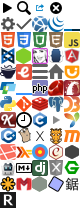
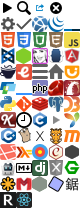
Add React documentation

Changed region(s): [[0.2, 0.9231, 0.4, 1.0]]

diff --git a/assets/stylesheets/global/_icons.scss b/assets/stylesheets/global/_icons.scss
@@ -73,3 +73,4 @@
 ._icon-phpunit:before       { background-position: -3rem -11rem; }
 ._icon-nokogiri:before      { background-position: -4rem -11rem; }
 ._icon-rethinkdb:before     { background-position: 0 -12rem; }
+._icon-react:before         { background-position: -1rem -12rem; }

diff --git a/assets/stylesheets/pages/_react.scss b/assets/stylesheets/pages/_react.scss
@@ -1,0 +1,8 @@
+._react {
+  > h2 { @extend %block-heading; }
+  > h3 { @extend %block-label, %label-blue; }
+  > h4 { font-size: 1em; }
+
+  code { @extend %label; }
+  blockquote { @extend %note; }
+}

diff --git a/assets/stylesheets/application.css.scss b/assets/stylesheets/application.css.scss
@@ -57,6 +57,7 @@
         'pages/phpunit',
         'pages/postgres',
         'pages/rdoc',
+        'pages/react',
         'pages/redis',
         'pages/requirejs',
         'pages/rethinkdb',

diff --git a/assets/stylesheets/components/_page.scss b/assets/stylesheets/components/_page.scss
@@ -15,6 +15,7 @@
 
   iframe {
     display: block;
+    margin-bottom: 1em;
     padding: 1px;
     border: 1px dotted $boxBorder;
     border-radius: 3px;

diff --git a/lib/docs/filters/react/entries.rb b/lib/docs/filters/react/entries.rb
@@ -1,0 +1,34 @@
+module Docs
+  class React
+    class EntriesFilter < Docs::EntriesFilter
+      API_SLUGS = %w(
+        top-level-api
+        component-api
+        component-specs
+      )
+
+      def get_name
+        at_css('h1').child.content
+      end
+
+      def get_type
+        link = at_css('.nav-docs-section .active')
+        section = link.ancestors('.nav-docs-section').first
+        section.at_css('h3').content
+      end
+
+      def additional_entries
+        return [] unless API_SLUGS.include?(slug)
+
+        css('.inner-content h3, .inner-content h4').map do |node|
+          name = node.content
+          name.remove! %r{[#\(\)]}
+          name.remove! %r{\w+\:}
+          id = node.at_css('.anchor')['name']
+          type = slug.include?('component') ? 'Component' : 'React'
+          [name, id, type]
+        end
+      end
+    end
+  end
+end

diff --git a/lib/docs/filters/react/clean_html.rb b/lib/docs/filters/react/clean_html.rb
@@ -1,0 +1,31 @@
+module Docs
+  class React
+    class CleanHtmlFilter < Filter
+      def call
+        @doc = at_css('.inner-content')
+
+        if root_page?
+          at_css('h1').content = 'React Documentation'
+        end
+
+        css('.docs-prevnext', '.hash-link', '.edit-page-link').remove
+
+        css('a.anchor').each do |node|
+          node.parent['id'] = node['name']
+        end
+
+        css('.highlight').each do |node|
+          node.name = 'pre'
+          node['data-lang'] = node.at_css('[data-lang]')['data-lang']
+          node.content = node.content
+        end
+
+        css('blockquote > p:first-child').each do |node|
+          node.remove if node.content.strip == 'Note:'
+        end
+
+        doc
+      end
+    end
+  end
+end

diff --git a/lib/docs/scrapers/react.rb b/lib/docs/scrapers/react.rb
@@ -1,0 +1,23 @@
+module Docs
+  class React < UrlScraper
+    self.name = 'React'
+    self.type = 'react'
+    self.version = '0.12.2'
+    self.base_url = 'http://facebook.github.io/react/docs/'
+    self.root_path = 'getting-started.html'
+
+    html_filters.push 'react/entries', 'react/clean_html'
+
+    options[:container] = '.documentationContent'
+
+    options[:skip] = %w(
+      videos.html
+      complementary-tools.html
+      examples.html)
+
+    options[:attribution] = <<-HTML
+      &copy; 2013&ndash;2014 Facebook Inc.<br>
+      Licensed under the Creative Commons Attribution 4.0 International Public License.
+    HTML
+  end
+end
